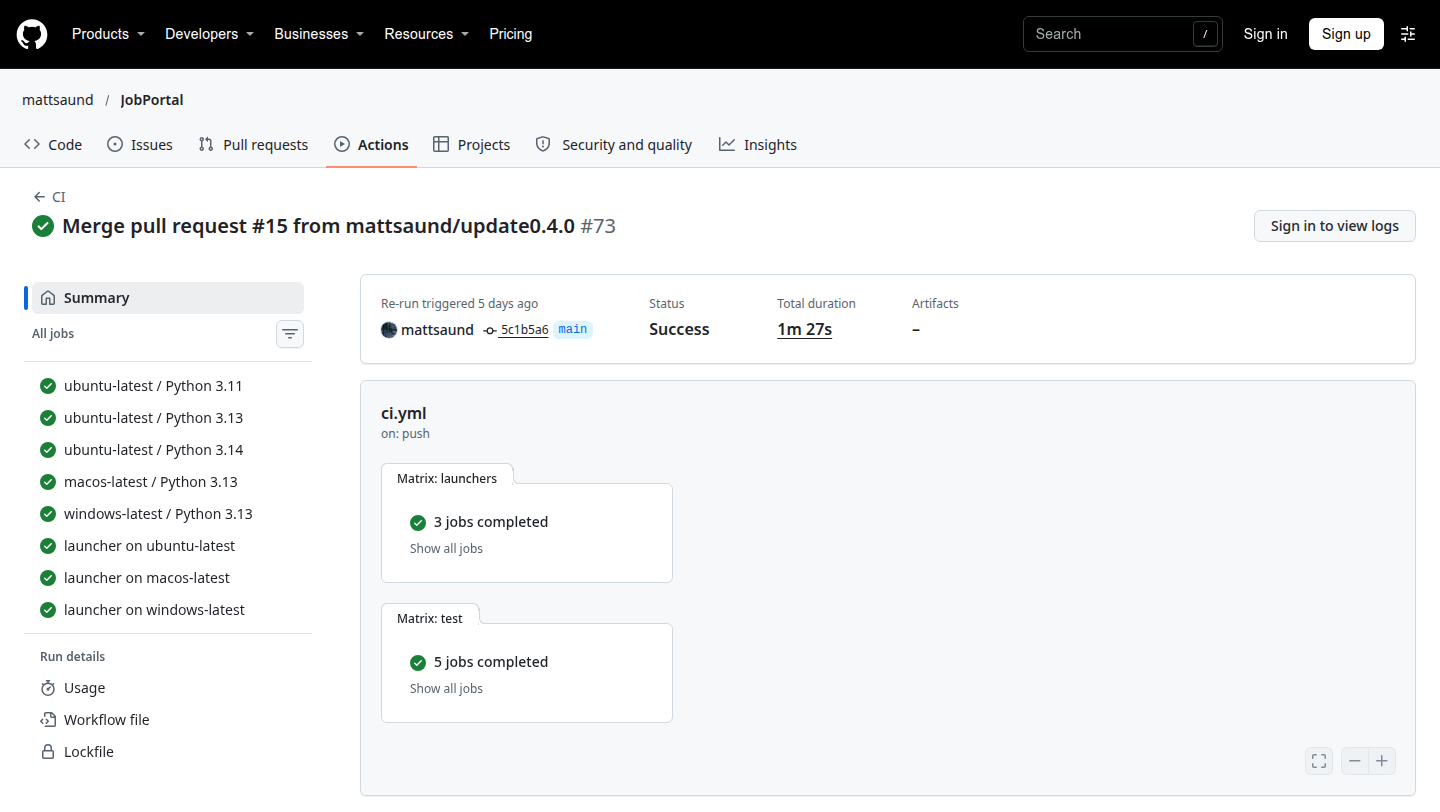
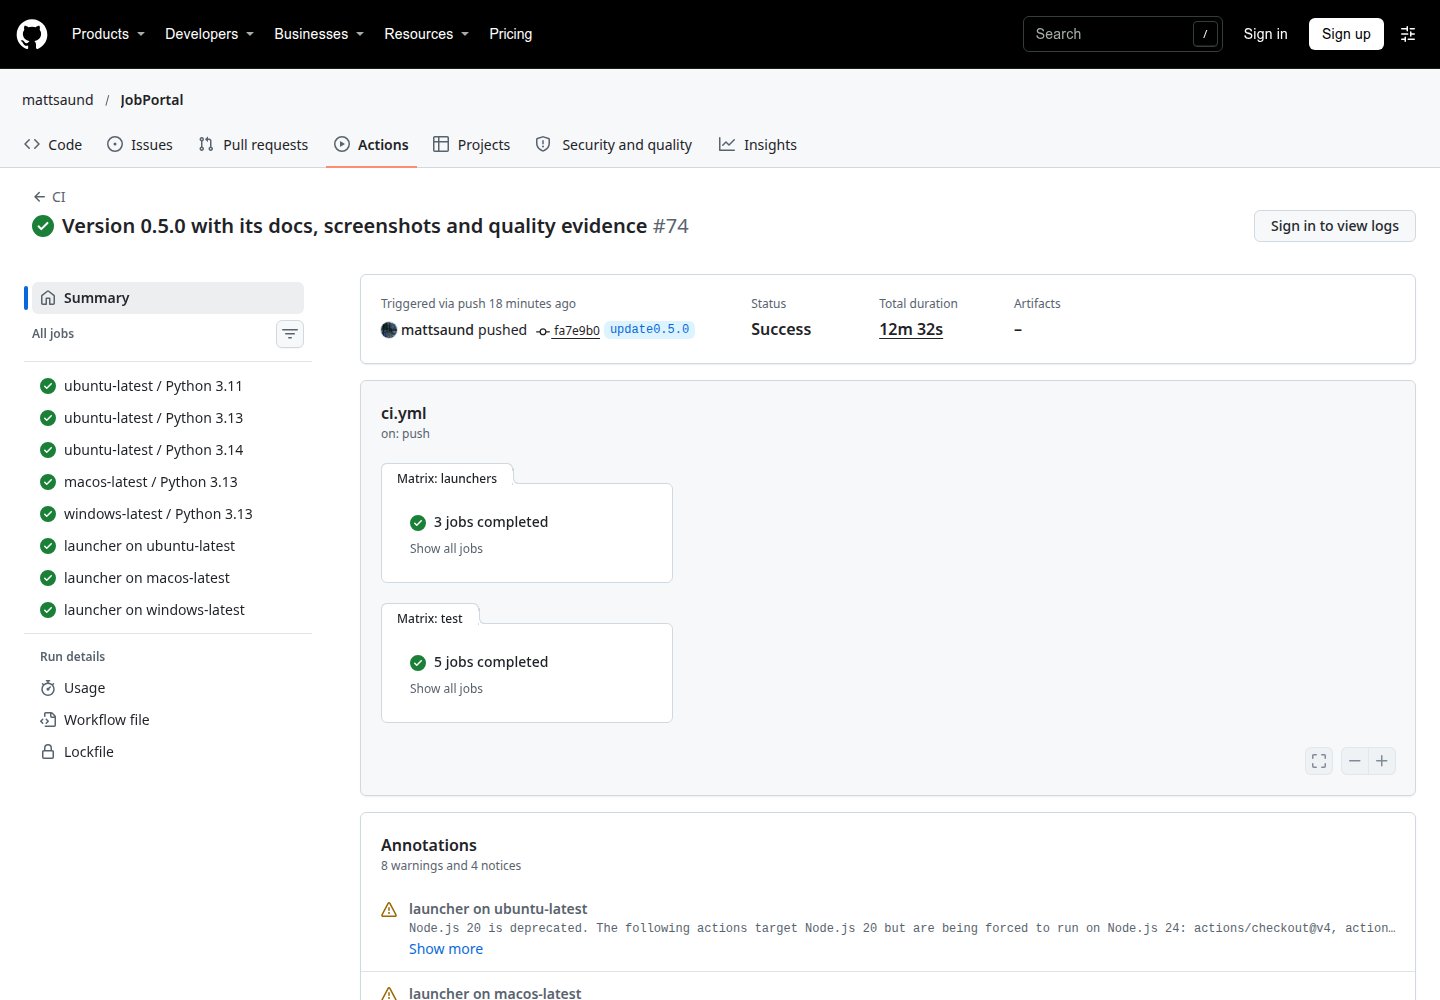
Show the 0.5.0 CI and release runs in the quality evidence
The tests and launchers passed on Linux, macOS and Windows, and the
dry run built and smoke tested all four apps.

diff --git a/documentation/QUALITY_EVIDENCE.md b/documentation/QUALITY_EVIDENCE.md
@@ -22,21 +22,20 @@ run with a real certificate yet, so the release apps are still unsigned.
 
 ### Real runs
 
-These were the newest runs on GitHub when this page was written. They're from the v0.4.0 release on 2026-11-18. The 0.5.0
-work came after them, so it has no runs in this table. It goes through the same workflows once it's on GitHub.
+These are the runs on the 0.5.0 code from 2026-11-23, plus the last published release before it.
 
 | Workflow | Run | What it ran on | Result |
 |---|---|---|---|
-| CI | [44372355823](https://github.com/mattsaund/JobPortal/actions/runs/44372355823) | `main`, 8 jobs (5 test, 3 launcher) | success |
-| Writing rules | [44372355865](https://github.com/mattsaund/JobPortal/actions/runs/44372355865) | `main`, 1 job | success |
+| CI | [45267871154](https://github.com/mattsaund/JobPortal/actions/runs/45267871154) | `update0.5.0`, 8 jobs (5 test, 3 launcher) | success |
+| Writing rules | [45267871271](https://github.com/mattsaund/JobPortal/actions/runs/45267871271) | `update0.5.0`, 1 job | success |
+| Release (dry run) | [45267886124](https://github.com/mattsaund/JobPortal/actions/runs/45267886124) | 4 builds, each started and smoke tested, nothing published. The Apple Silicon job got no GitHub runner on the first attempt and passed when run again | success |
 | Release | [44372383040](https://github.com/mattsaund/JobPortal/actions/runs/44372383040) | tag `v0.4.0`, 4 builds and the publish | success |
-| Release (dry run) | [44366710095](https://github.com/mattsaund/JobPortal/actions/runs/44366710095) | started by hand before the tag, 4 builds, nothing published | success |
 
 A green CI run, with every test and launcher job passing on all three systems:
 
 ![A green CI run on GitHub Actions](evidence/ci-run.png)
 
-A green Release run, with the four app builds and the publish step:
+A green Release dry run, with the four app builds. The publish step only runs for a version tag:
 
 ![A green Release run on GitHub Actions](evidence/release-run.png)
 
